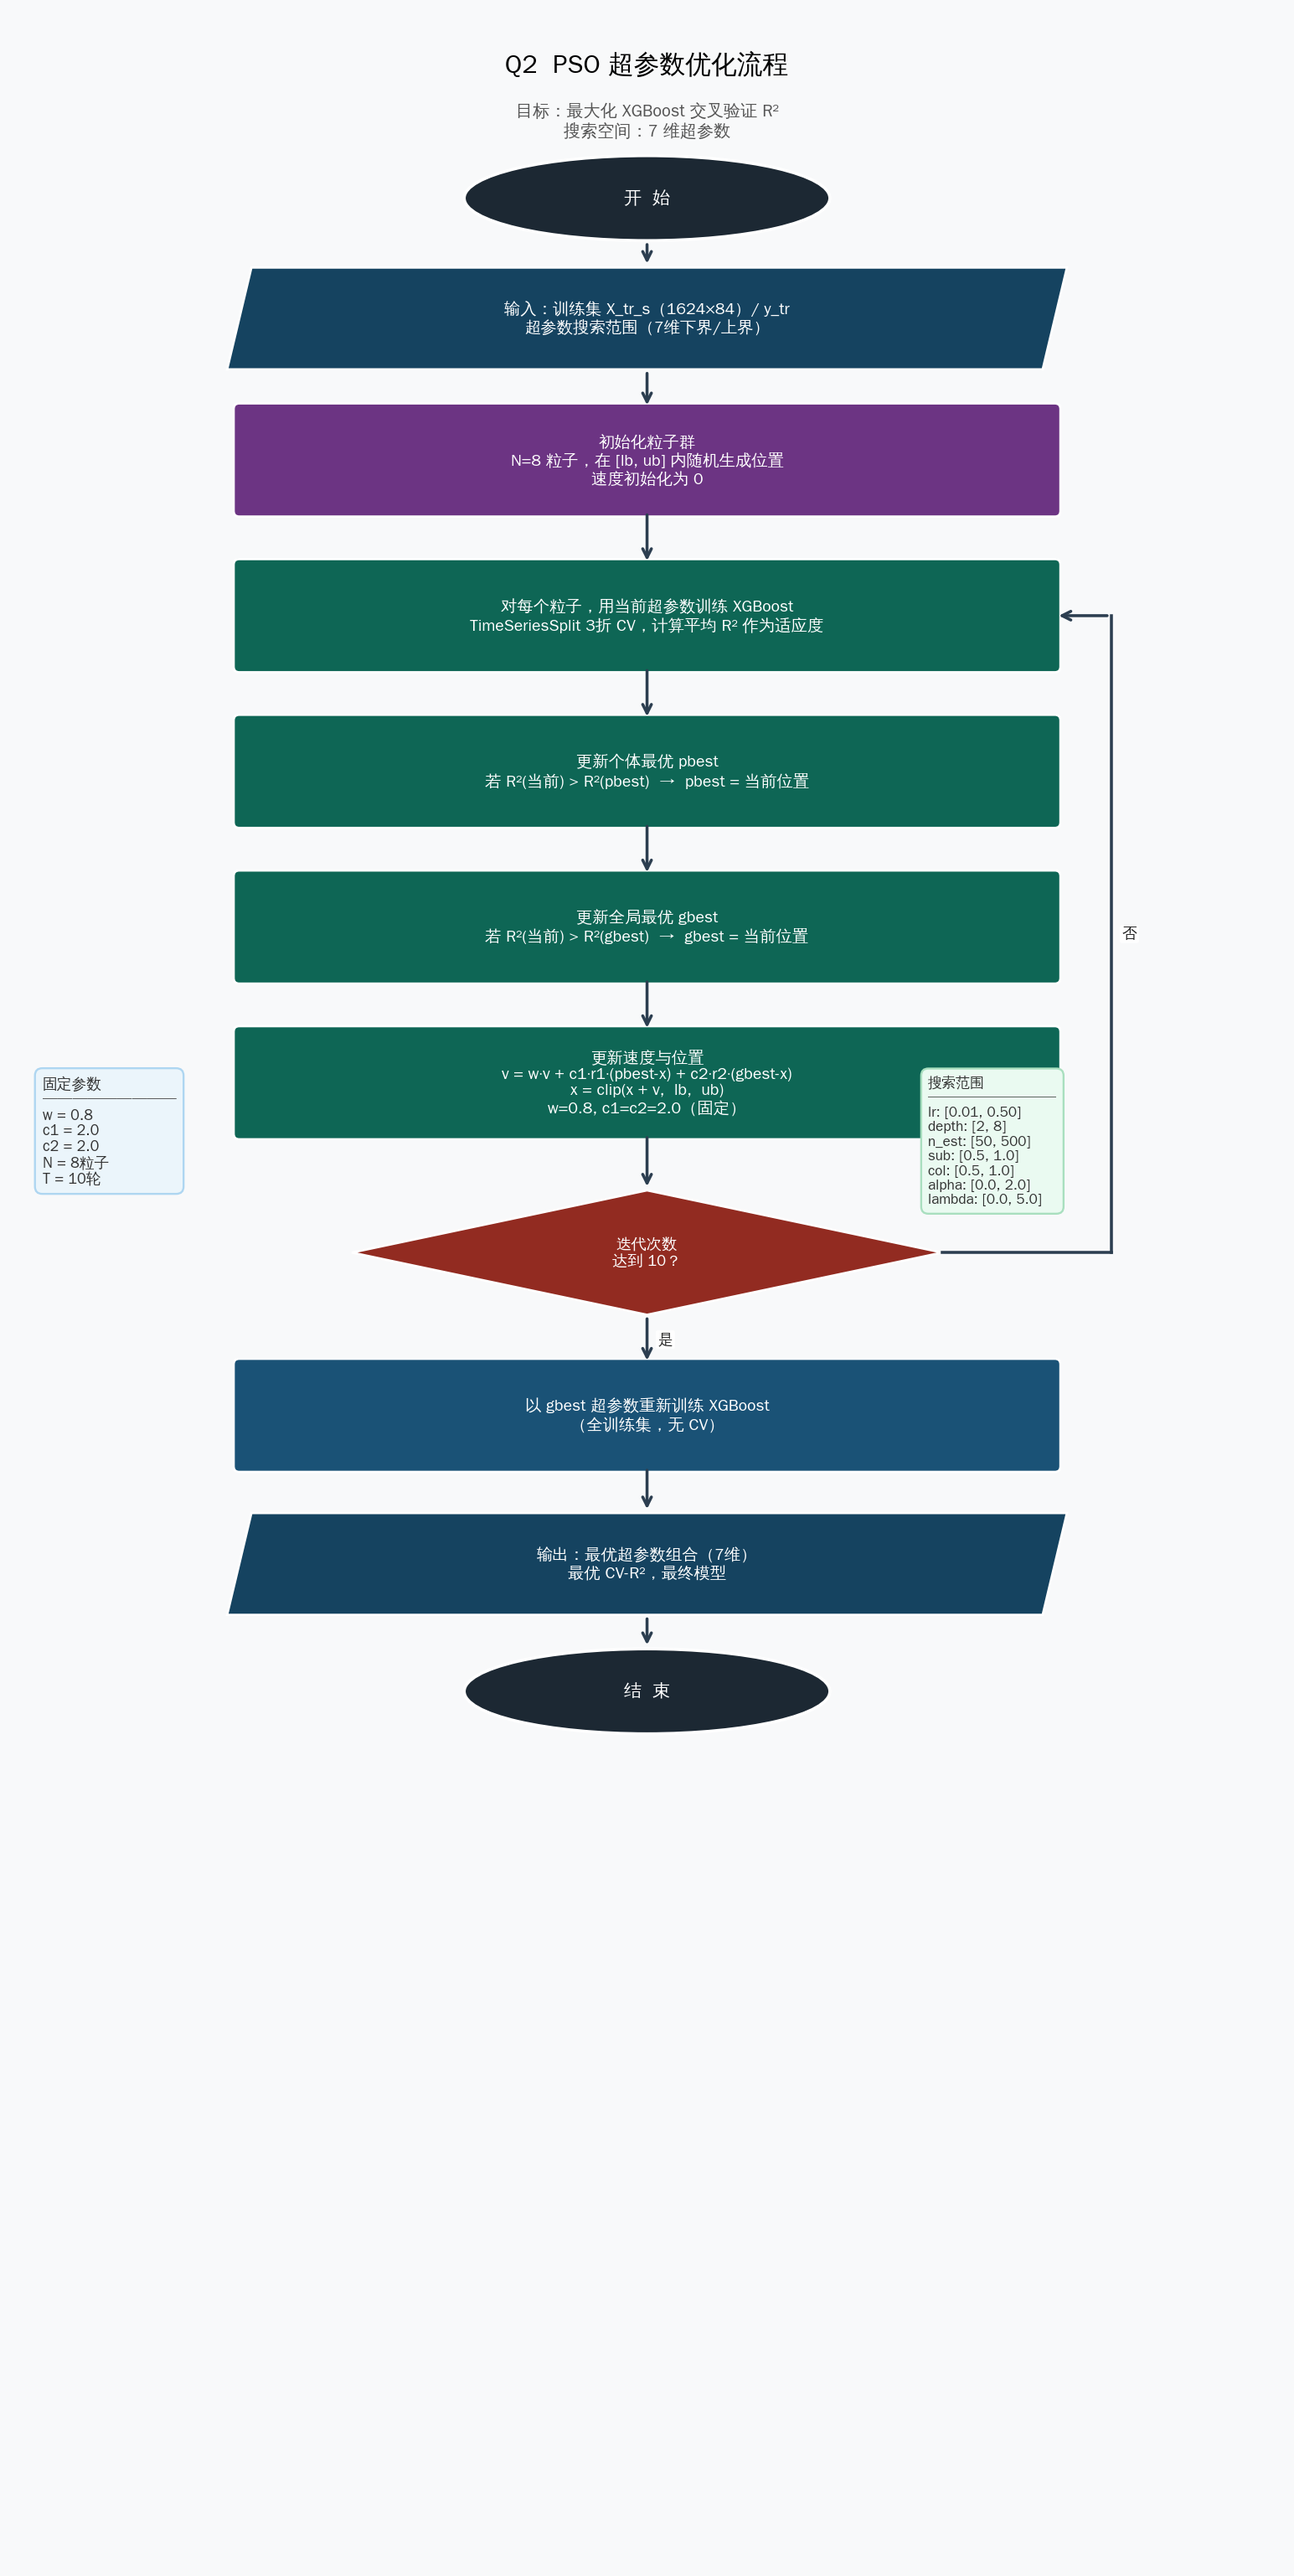
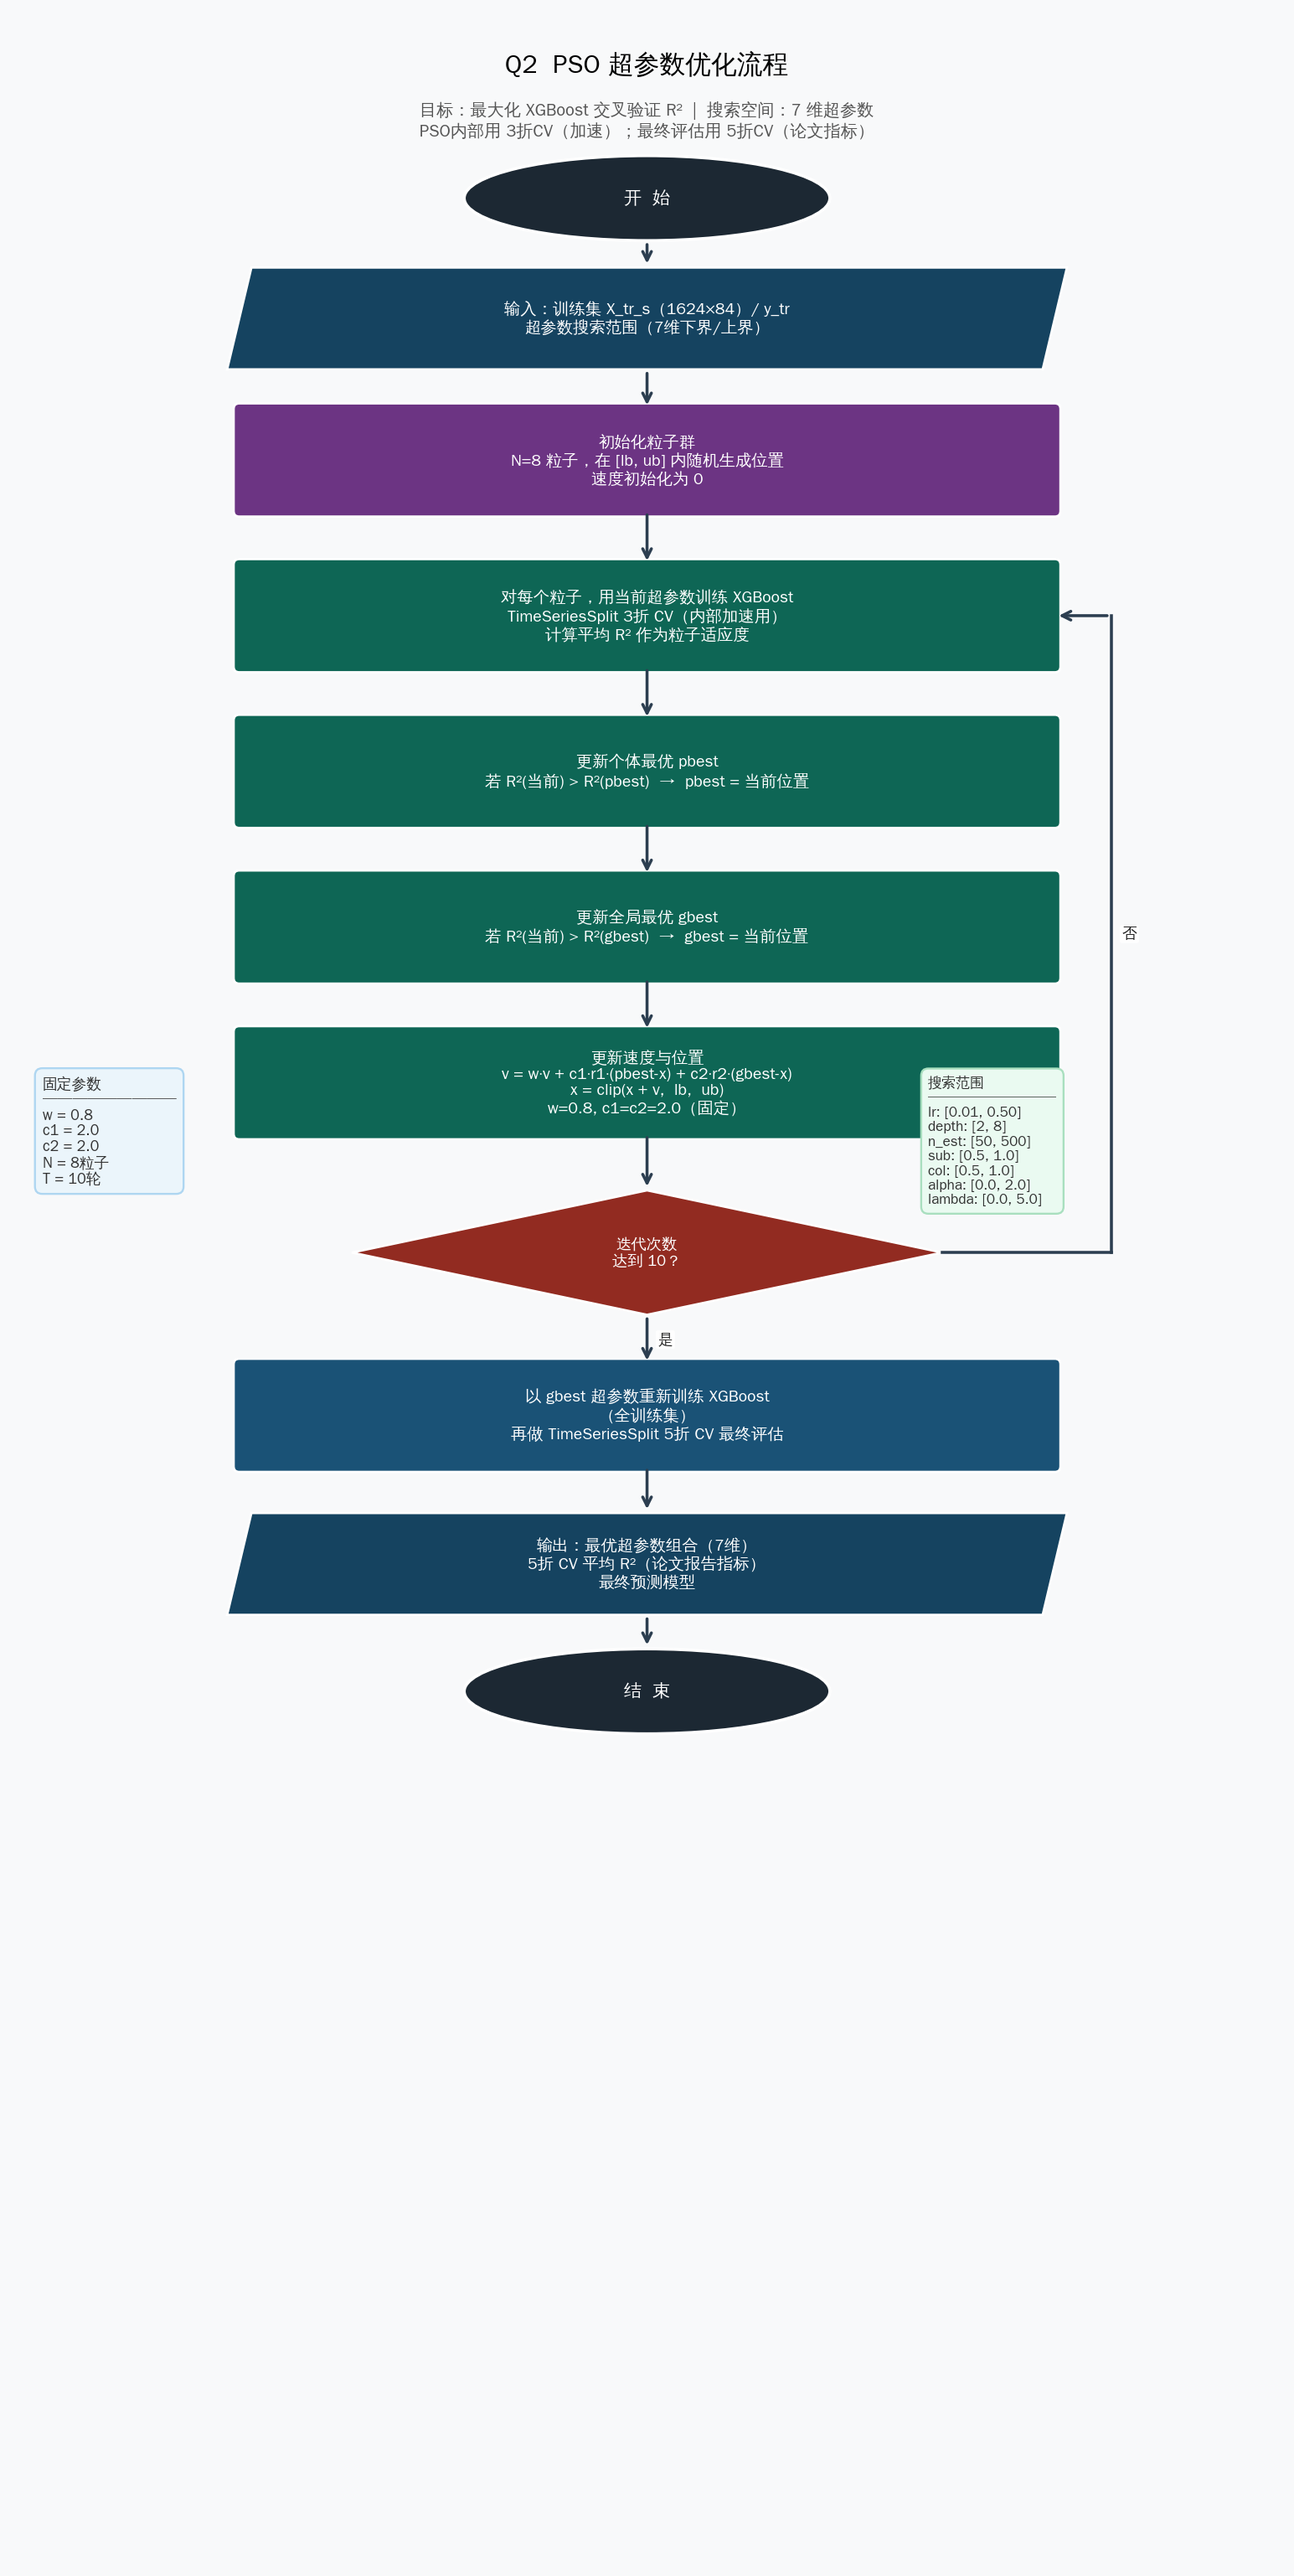
Fix Q2 PSO flowchart: clarify 3-fold CV (internal) vs 5-fold CV (final)
PSO uses 3-fold TimeSeriesSplit internally for speed during particle
evaluation. Final model evaluation uses 5-fold CV as reported in paper.

https://claude.ai/code/session_01LcBaKyPS88nU1pFVtHDwPW

diff --git a/gen_pso_flowchart.py b/gen_pso_flowchart.py
@@ -101,7 +101,7 @@ def gen_q2_pso():
 
     ax.text(4.5, 17.65, 'Q2  PSO 超参数优化流程',
             ha='center', va='center', fontsize=13, fontweight='bold')
-    ax.text(4.5, 17.25, '目标：最大化 XGBoost 交叉验证 R²\n搜索空间：7 维超参数',
+    ax.text(4.5, 17.25, '目标：最大化 XGBoost 交叉验证 R²  |  搜索空间：7 维超参数\nPSO内部用 3折CV（加速）；最终评估用 5折CV（论文指标）',
             ha='center', va='center', fontsize=8.5, color='#555555')
 
     W, H  = 5.8, 0.72
@@ -118,7 +118,7 @@ def gen_q2_pso():
          '初始化粒子群\nN=8 粒子，在 [lb, ub] 内随机生成位置\n速度初始化为 0', color=C_INIT)
 
     rect(ax, cx, 13.75, W, H,
-         '对每个粒子，用当前超参数训练 XGBoost\nTimeSeriesSplit 3折 CV，计算平均 R² 作为适应度',
+         '对每个粒子，用当前超参数训练 XGBoost\nTimeSeriesSplit 3折 CV（内部加速用）\n计算平均 R² 作为粒子适应度',
          color=C_LOOP)
 
     rect(ax, cx, 12.65, W, H,
@@ -136,10 +136,10 @@ def gen_q2_pso():
     diamond(ax, cx, 9.25, WD, HD, '迭代次数\n达到 10？')
 
     rect(ax, cx, 8.1, W, H,
-         '以 gbest 超参数重新训练 XGBoost\n（全训练集，无 CV）')
+         '以 gbest 超参数重新训练 XGBoost\n（全训练集）\n再做 TimeSeriesSplit 5折 CV 最终评估')
 
     para(ax, cx, 7.05, W, H,
-         '输出：最优超参数组合（7维）\n最优 CV-R²，最终模型')
+         '输出：最优超参数组合（7维）\n5折 CV 平均 R²（论文报告指标）\n最终预测模型')
 
     oval(ax, cx, 6.15, 2.6, 0.6, '结  束')
 
